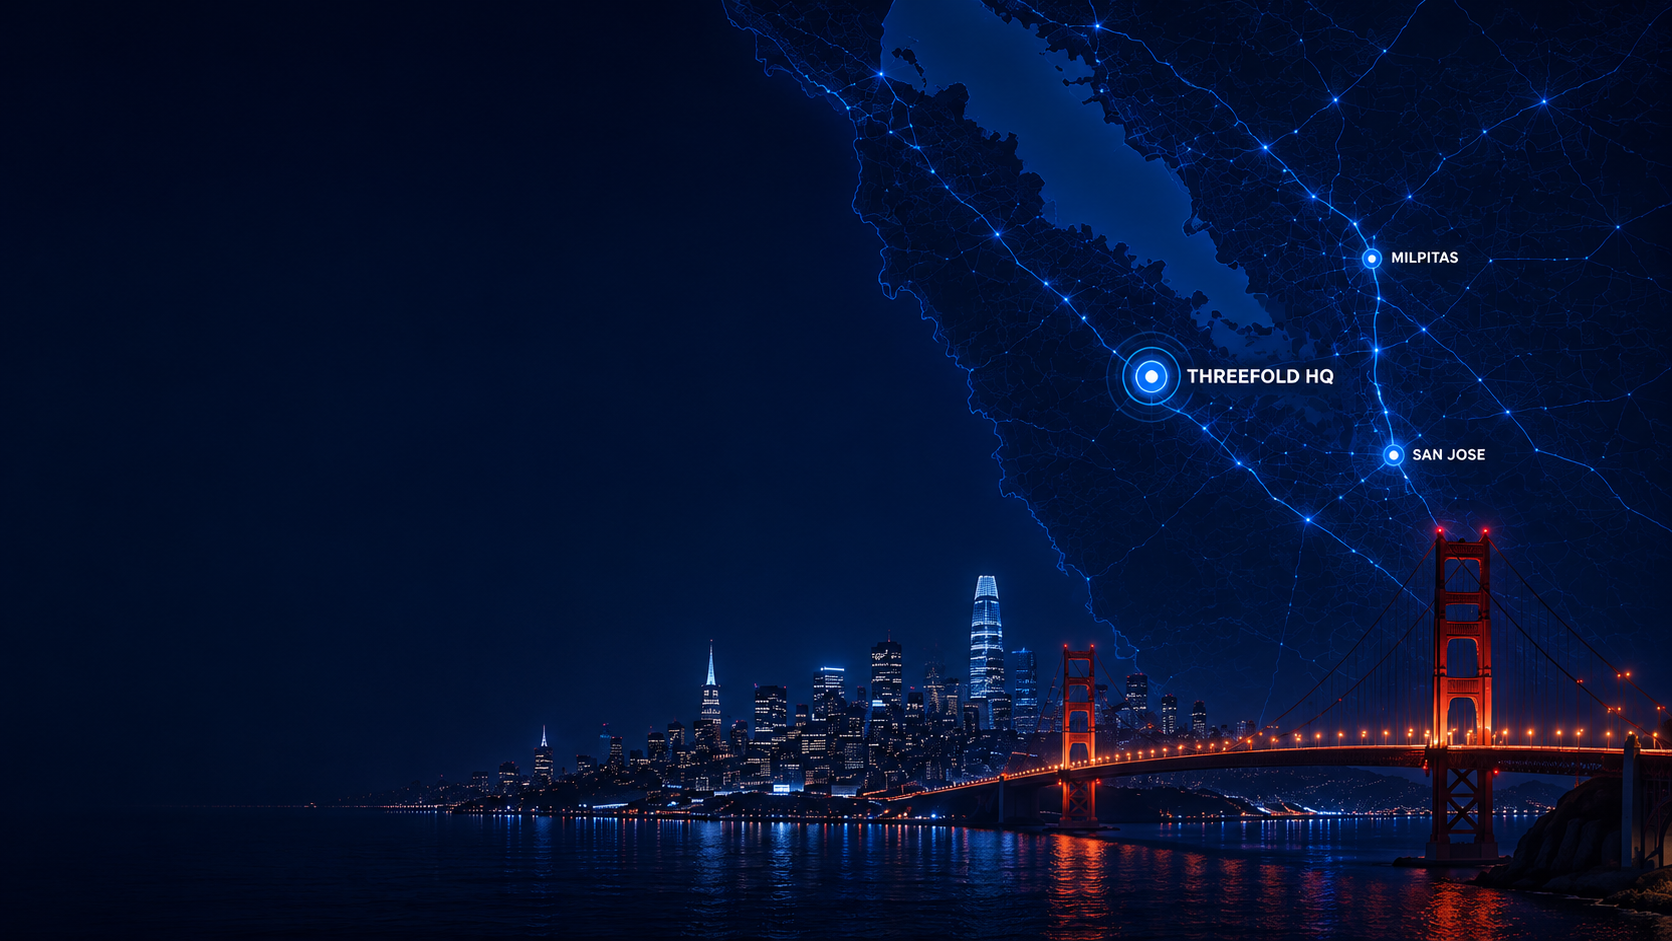
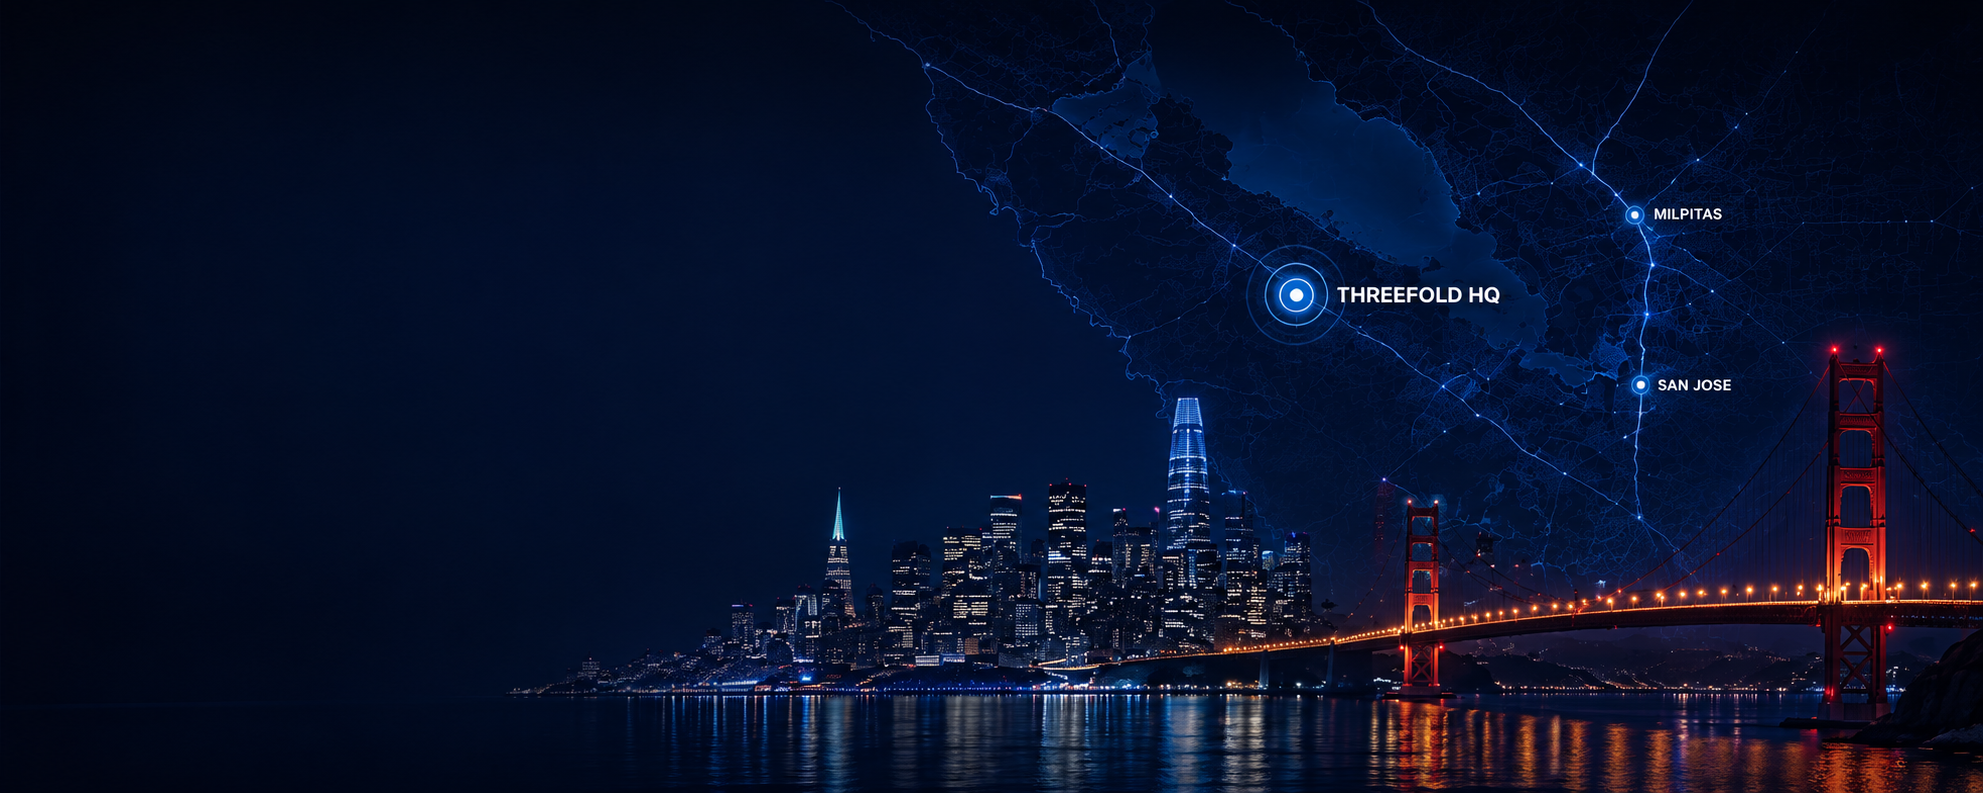
Update hero image and match container to new 2.5:1 aspect ratio
New bay-area-hero-bg.png is 1983×793 (2.5:1). Changed md:aspect from
16/9 to 5/2 so object-contain fills the banner without dead-space borders.
Added min-h-[380px] floor to keep content visible at narrow desktop widths
where the sidebar is absent; max-h-[600px] caps height on ultra-wide screens.

Changed region(s): [[0.2177, 0.0, 1.0, 1.0], [0.9641, 0.2119, 0.9952, 0.2421]]

diff --git a/src/components/dashboard/DashboardHero.tsx b/src/components/dashboard/DashboardHero.tsx
@@ -9,7 +9,7 @@ type DashboardHeroProps = {
 export default function DashboardHero({ todayLabel }: DashboardHeroProps) {
   return (
     <section
-      className="relative -mx-4 -mt-20 min-h-[420px] overflow-hidden rounded-none border border-slate-800/80 bg-[#020817] px-5 pb-7 pt-24 text-white shadow-[0_30px_90px_rgba(2,8,23,0.34)] sm:-mx-6 sm:min-h-[440px] md:mx-0 md:mt-0 md:aspect-[16/9] md:max-h-[700px] md:min-h-0 md:rounded-[2.25rem] md:px-12 md:py-10"
+      className="relative -mx-4 -mt-20 min-h-[420px] overflow-hidden rounded-none border border-slate-800/80 bg-[#020817] px-5 pb-7 pt-24 text-white shadow-[0_30px_90px_rgba(2,8,23,0.34)] sm:-mx-6 sm:min-h-[440px] md:mx-0 md:mt-0 md:aspect-[5/2] md:min-h-[380px] md:max-h-[600px] md:rounded-[2.25rem] md:px-12 md:py-10"
       aria-label="Threefold operations dashboard hero"
     >
       <Image
